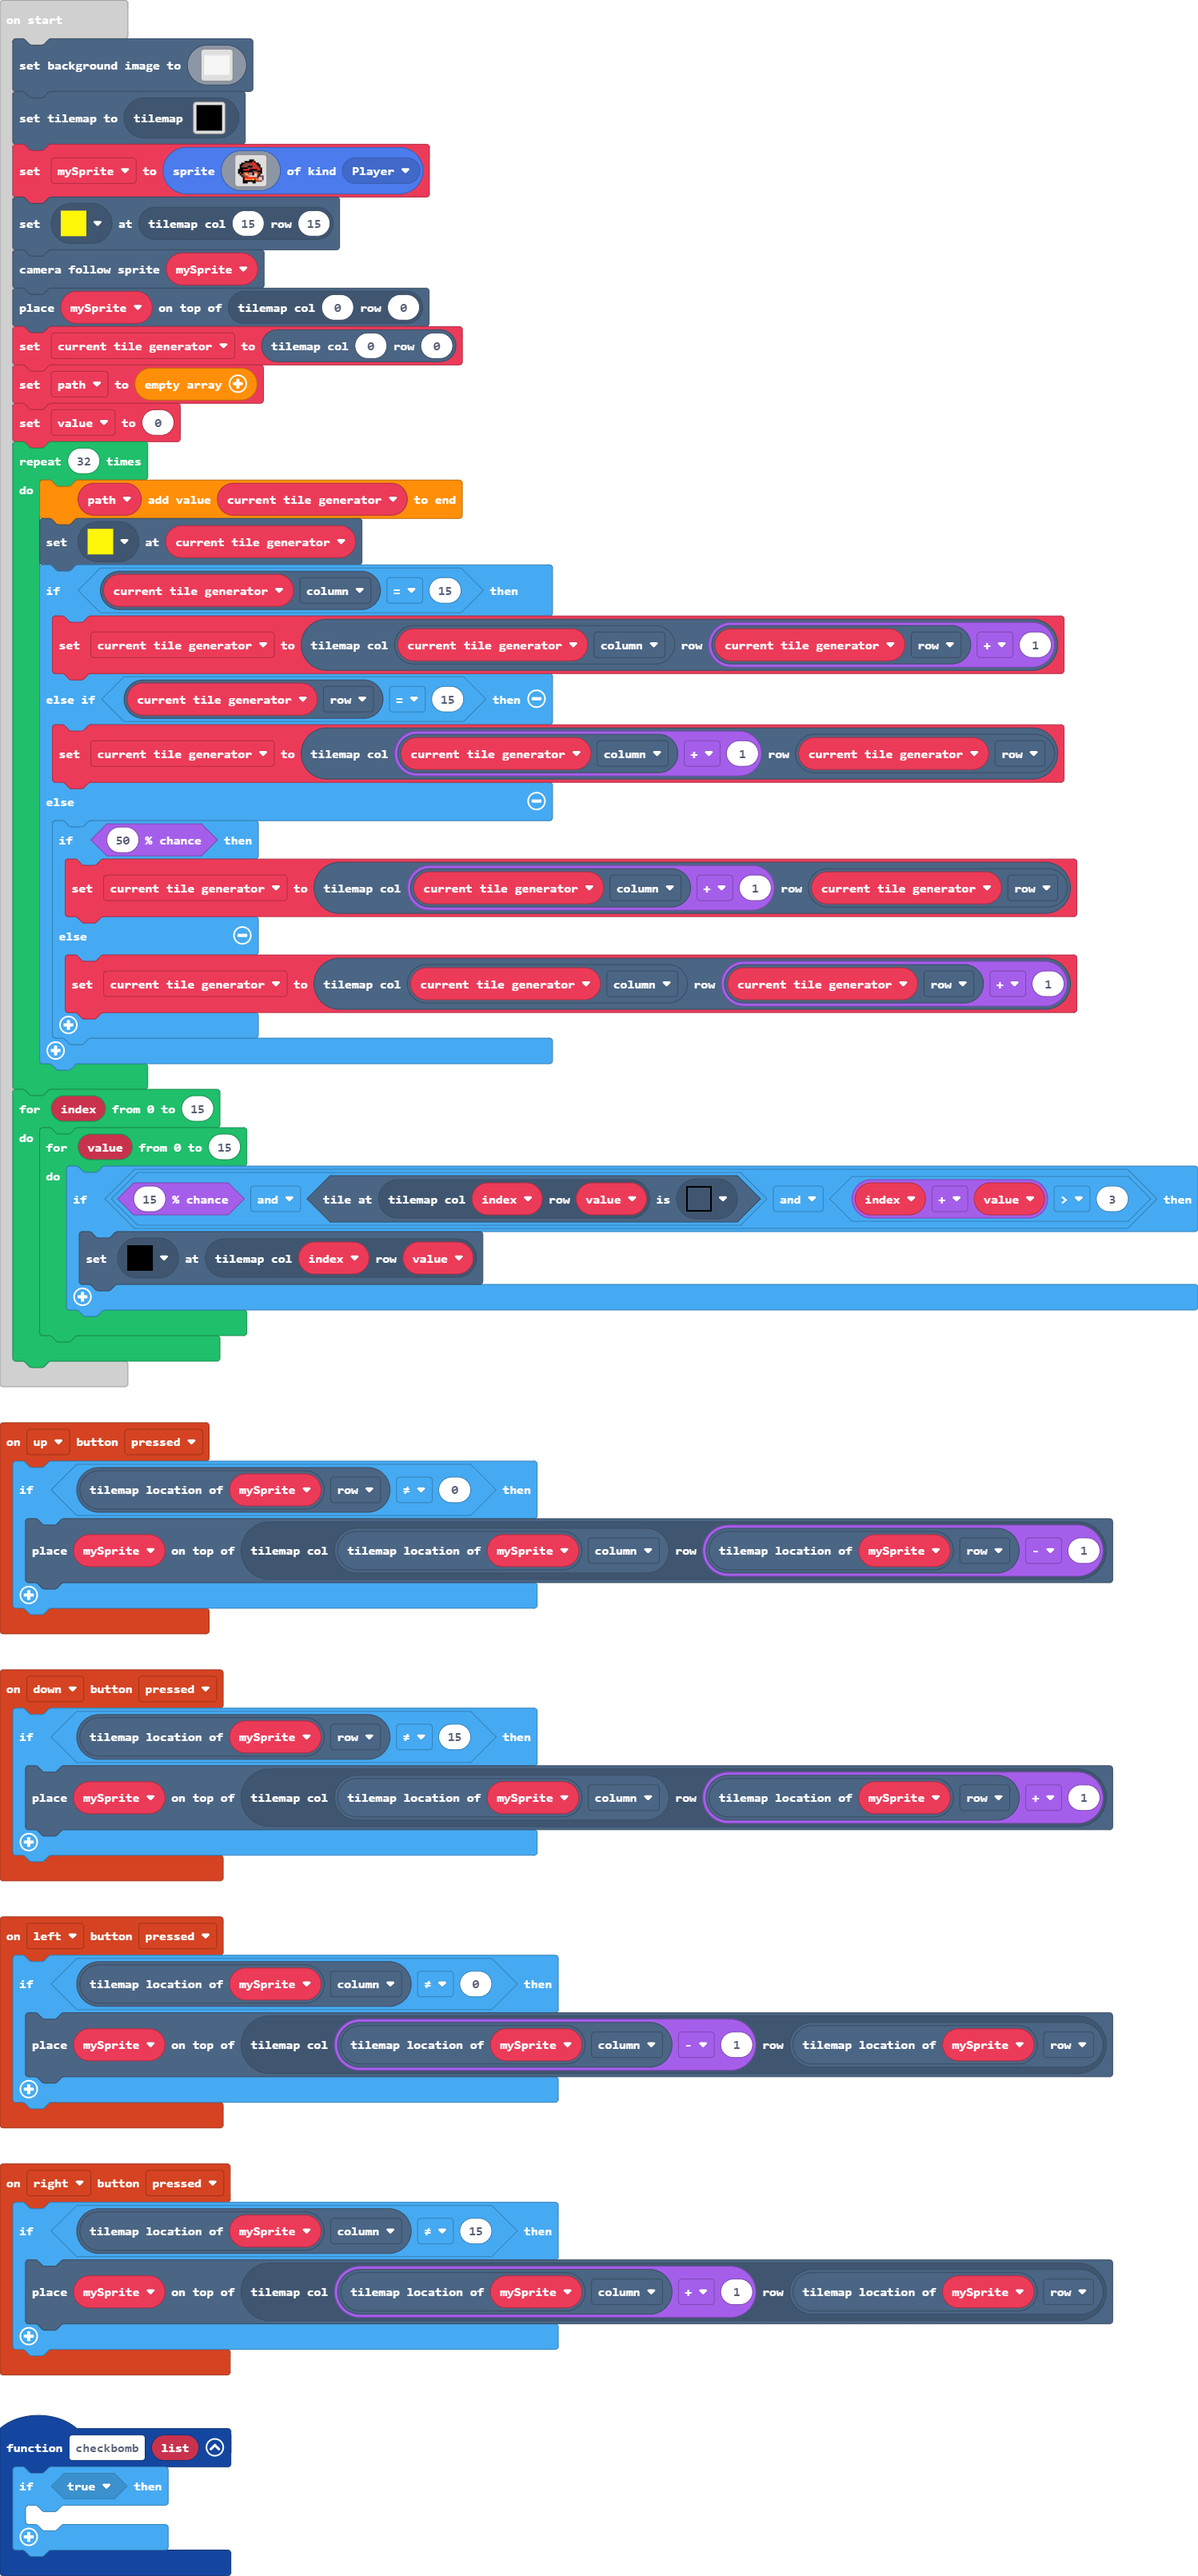
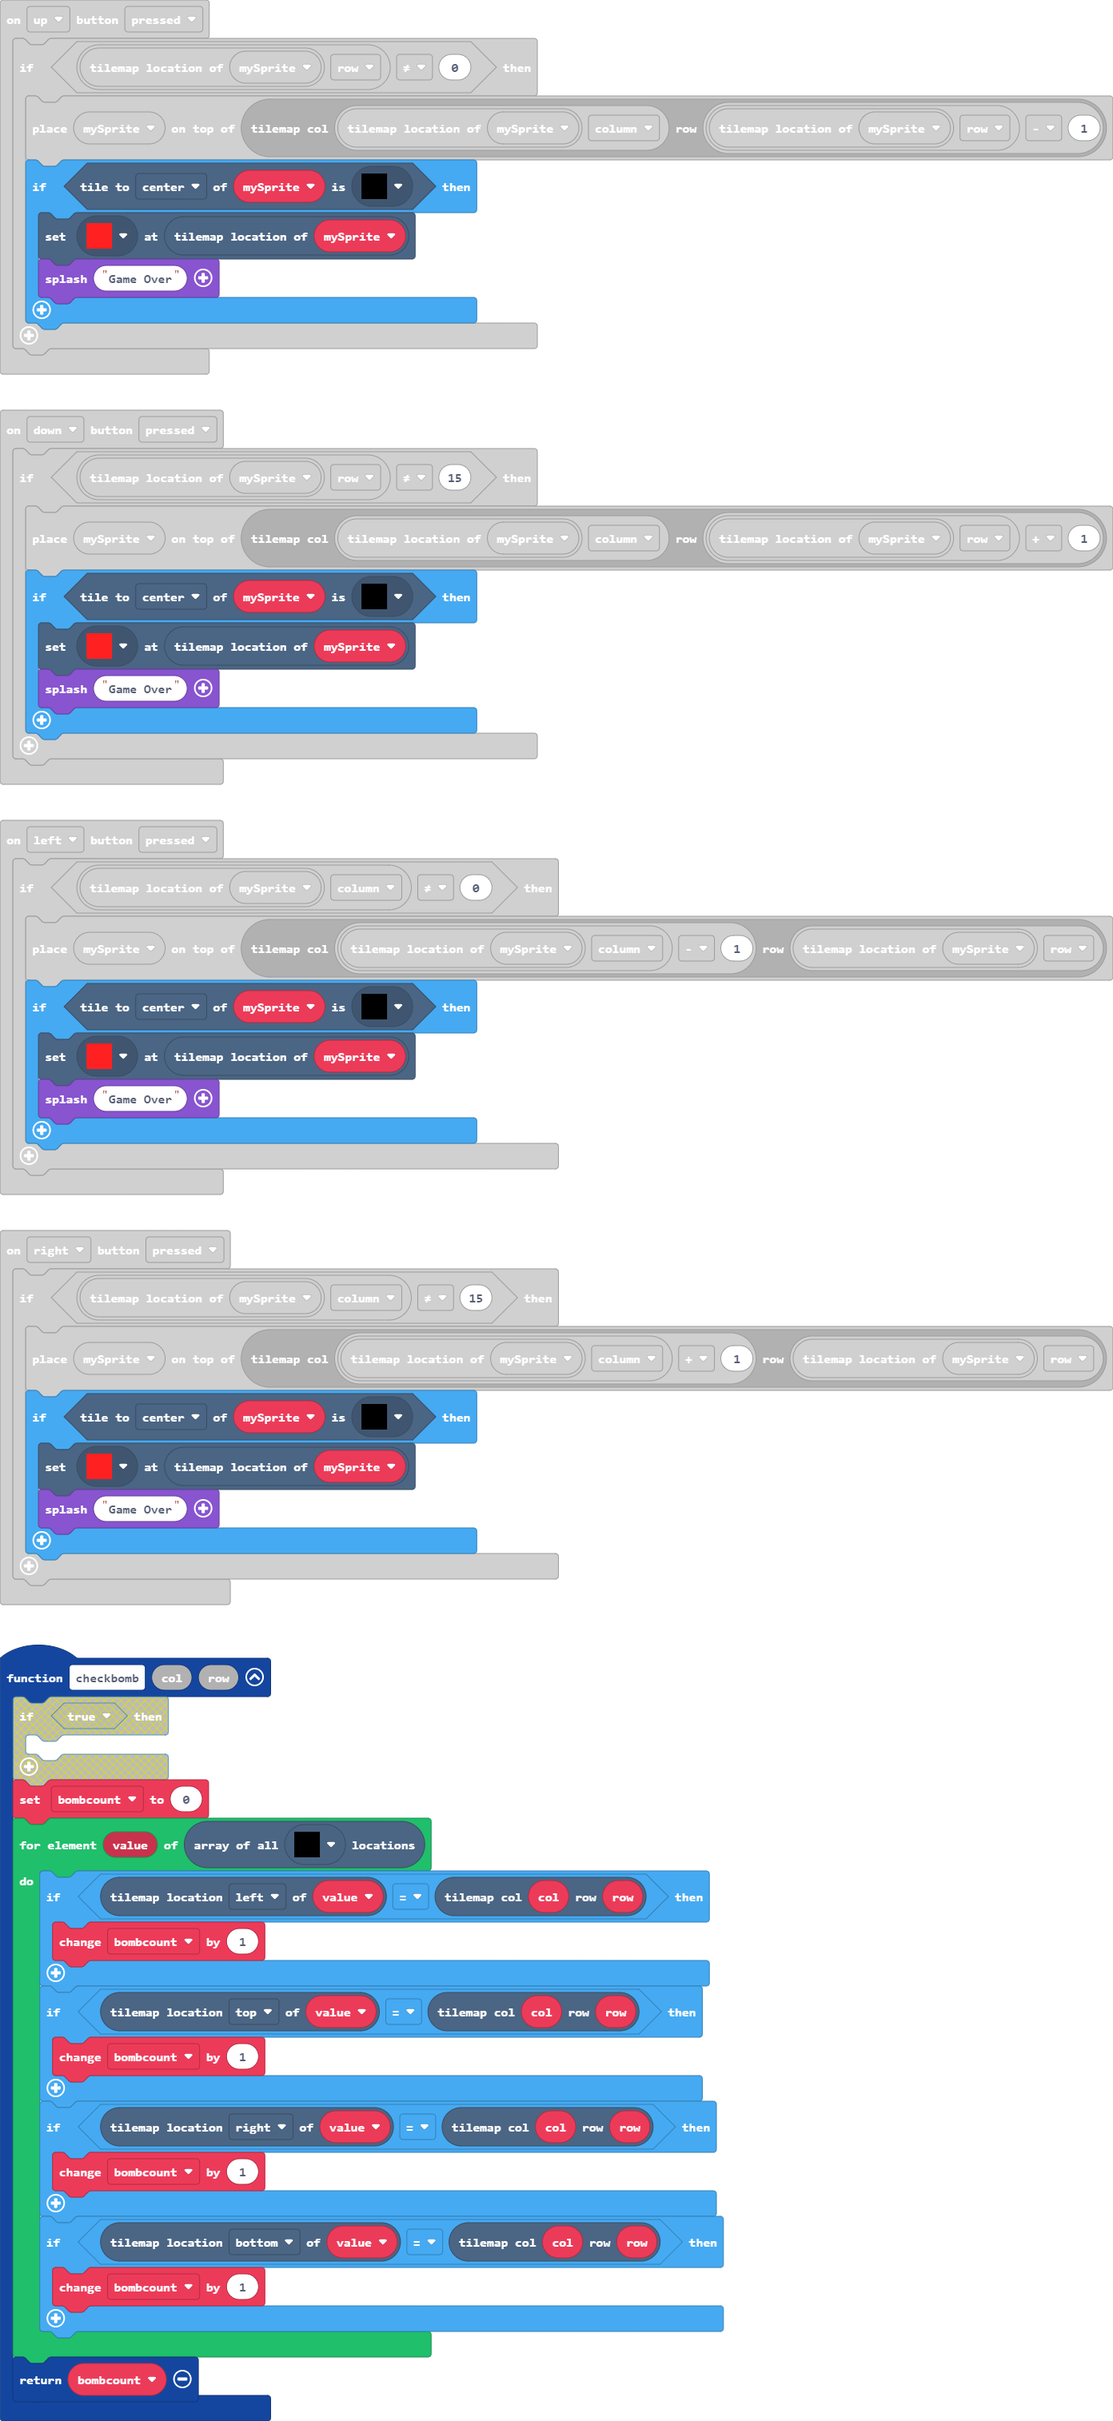
Update main.blocks, main.ts, tilemap.g.jres, tilemap.g.ts

diff --git a/main.ts b/main.ts
@@ -1,28 +1,58 @@
 controller.up.onEvent(ControllerButtonEvent.Pressed, function () {
     if (mySprite.tilemapLocation().row != 0) {
         tiles.placeOnTile(mySprite, tiles.getTileLocation(mySprite.tilemapLocation().column, mySprite.tilemapLocation().row - 1))
+        if (mySprite.tileKindAt(TileDirection.Center, assets.tile`myTile0`)) {
+            tiles.setTileAt(mySprite.tilemapLocation(), assets.tile`myTile2`)
+            game.splash("Game Over")
+        }
     }
 })
 controller.left.onEvent(ControllerButtonEvent.Pressed, function () {
     if (mySprite.tilemapLocation().column != 0) {
         tiles.placeOnTile(mySprite, tiles.getTileLocation(mySprite.tilemapLocation().column - 1, mySprite.tilemapLocation().row))
+        if (mySprite.tileKindAt(TileDirection.Center, assets.tile`myTile0`)) {
+            tiles.setTileAt(mySprite.tilemapLocation(), assets.tile`myTile2`)
+            game.splash("Game Over")
+        }
     }
 })
-function checkbomb (list: any[]) {
-    if (true) {
-    	
+function checkbomb (col: number, row: number) {
+    bombcount = 0
+    for (let value of tiles.getTilesByType(assets.tile`myTile0`)) {
+        if (value.getNeighboringLocation(CollisionDirection.Left) == tiles.getTileLocation(col, row)) {
+            bombcount += 1
+        }
+        if (value.getNeighboringLocation(CollisionDirection.Top) == tiles.getTileLocation(col, row)) {
+            bombcount += 1
+        }
+        if (value.getNeighboringLocation(CollisionDirection.Right) == tiles.getTileLocation(col, row)) {
+            bombcount += 1
+        }
+        if (value.getNeighboringLocation(CollisionDirection.Bottom) == tiles.getTileLocation(col, row)) {
+            bombcount += 1
+        }
     }
+    return bombcount
 }
 controller.right.onEvent(ControllerButtonEvent.Pressed, function () {
     if (mySprite.tilemapLocation().column != 15) {
         tiles.placeOnTile(mySprite, tiles.getTileLocation(mySprite.tilemapLocation().column + 1, mySprite.tilemapLocation().row))
+        if (mySprite.tileKindAt(TileDirection.Center, assets.tile`myTile0`)) {
+            tiles.setTileAt(mySprite.tilemapLocation(), assets.tile`myTile2`)
+            game.splash("Game Over")
+        }
     }
 })
 controller.down.onEvent(ControllerButtonEvent.Pressed, function () {
     if (mySprite.tilemapLocation().row != 15) {
         tiles.placeOnTile(mySprite, tiles.getTileLocation(mySprite.tilemapLocation().column, mySprite.tilemapLocation().row + 1))
+        if (mySprite.tileKindAt(TileDirection.Center, assets.tile`myTile0`)) {
+            tiles.setTileAt(mySprite.tilemapLocation(), assets.tile`myTile2`)
+            game.splash("Game Over")
+        }
     }
 })
+let bombcount = 0
 let mySprite: Sprite = null
 scene.setBackgroundImage(img`
     1111111111111111111111111111111111111111111111111111111111111111111111111111111111111111111111111111111111111111111111111111111111111111111111111111111111111111

diff --git a/tilemap.g.ts b/tilemap.g.ts
@@ -8,6 +8,10 @@ namespace myTiles {
     export const tile2 = image.ofBuffer(hex``);
     //% fixedInstance jres blockIdentity=images._tile
     export const tile3 = image.ofBuffer(hex``);
+    //% fixedInstance jres blockIdentity=images._tile
+    export const tile4 = image.ofBuffer(hex``);
+    //% fixedInstance jres blockIdentity=images._tile
+    export const tile5 = image.ofBuffer(hex``);
 
     helpers._registerFactory("tilemap", function(name: string) {
         switch(helpers.stringTrim(name)) {
@@ -81,6 +85,10 @@ namespace myTiles {
             case "tile2":return tile2;
             case "myTile1":
             case "tile3":return tile3;
+            case "myTile2":
+            case "tile4":return tile4;
+            case "myTile3":
+            case "tile5":return tile5;
         }
         return null;
     })
